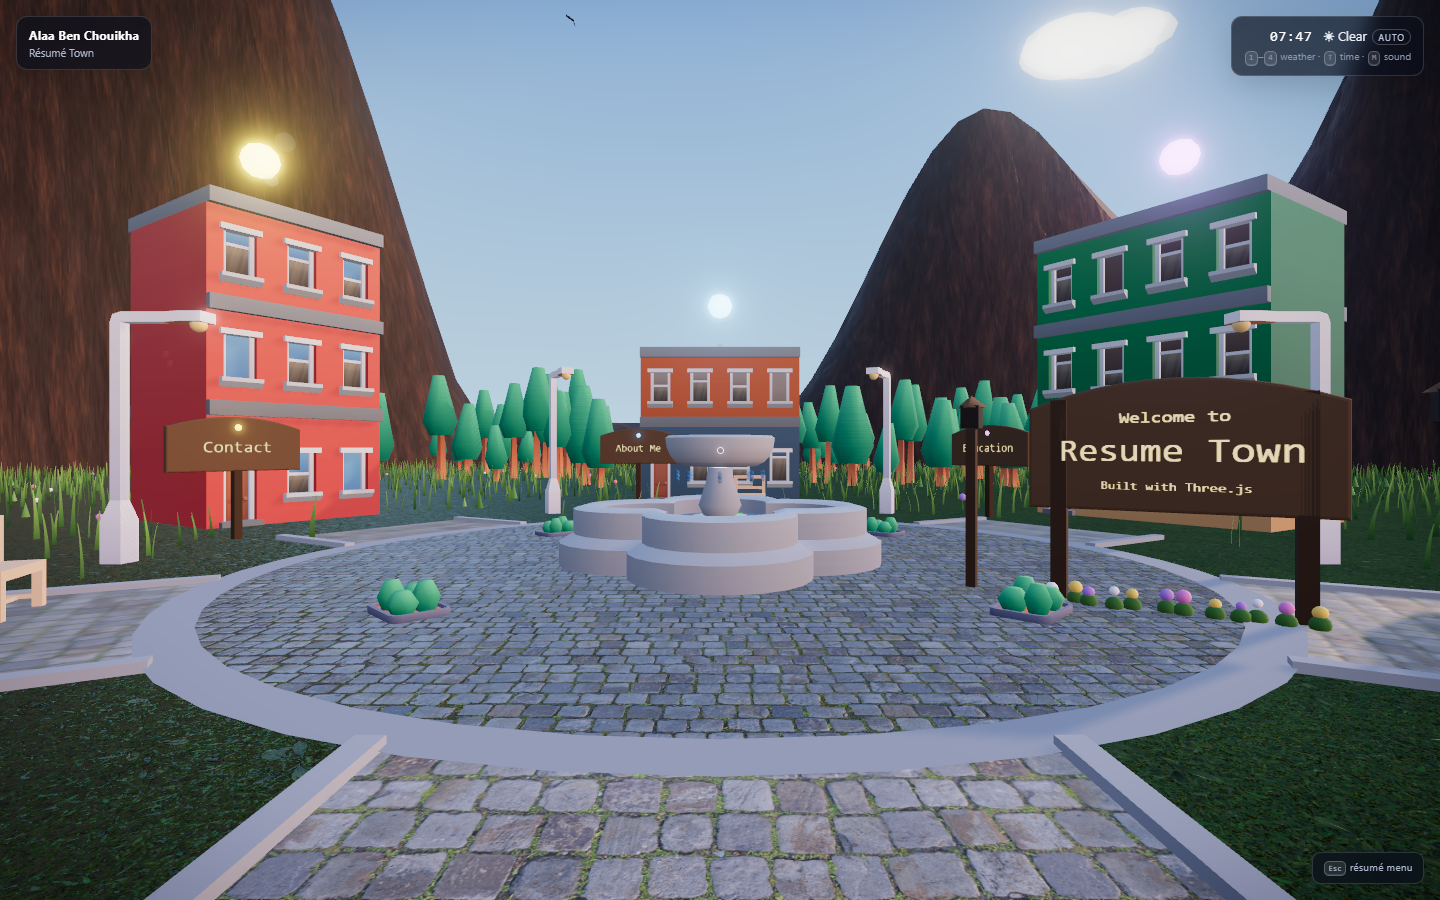
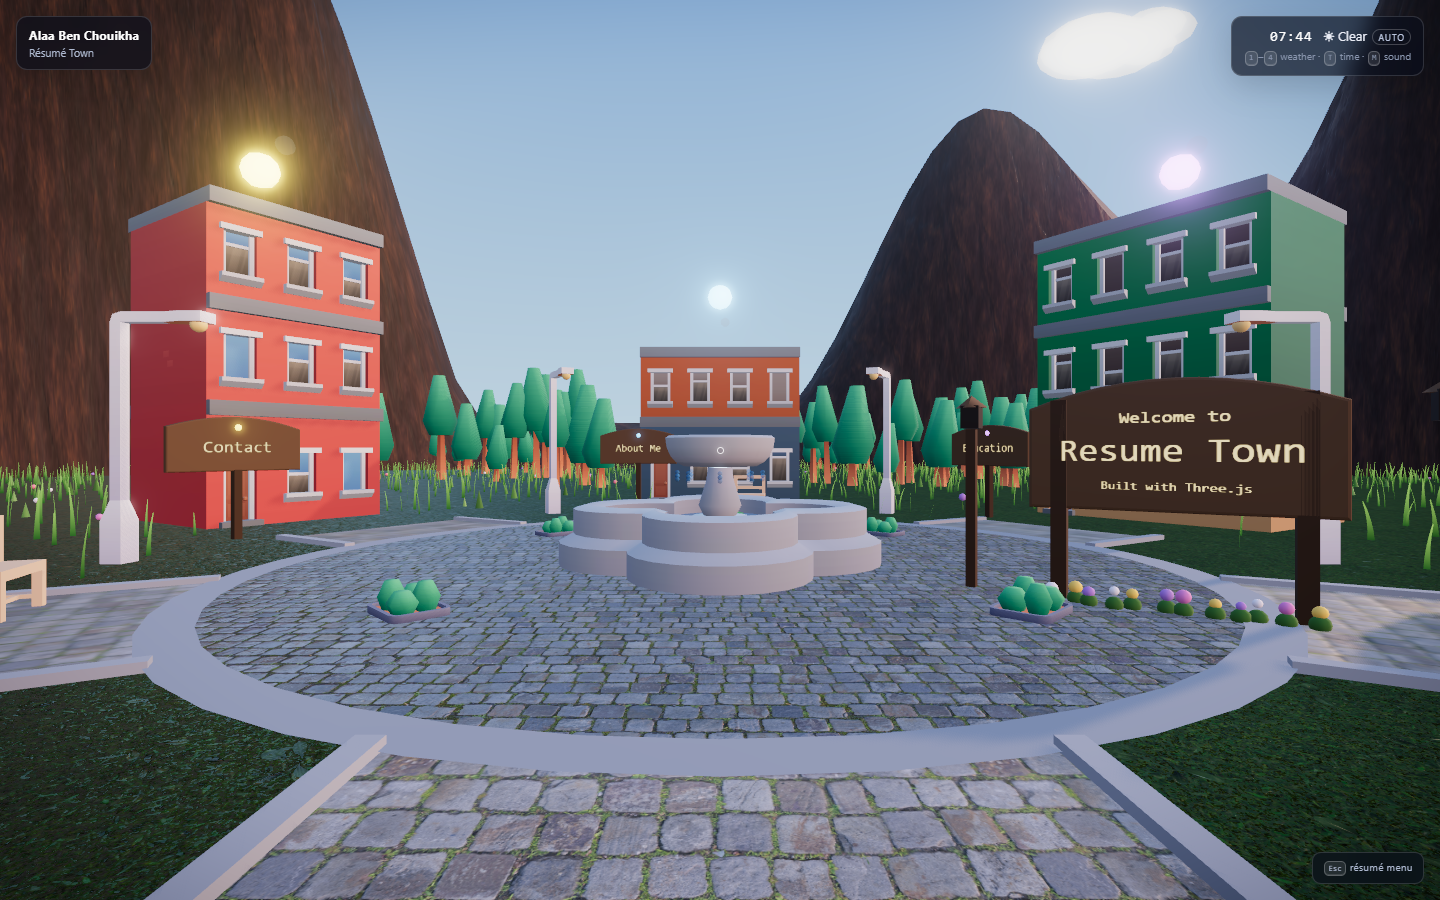
Fix stuck-in-furniture, add real interior door, optimize grass
- Player: never block movement when already inside a collider, so you can
  always walk back out (fixes getting permanently stuck in a chair); shrink
  furniture/decor collider padding.
- Doorway: a real wooden double-door (frame, header, transom, panels, handles,
  center mullion) fills the exit opening that used to show a black void.
- GrassField: unlit MeshBasicNodeMaterial + 13k->7k blades (big perf win; the
  lit instanced blades were the regression).
- Expose camera in dev for screenshot tooling.

diff --git a/src/components/Doorway.tsx b/src/components/Doorway.tsx
@@ -1,0 +1,66 @@
+// A real wooden double-door filling the room's exit gap (south wall, z = +4),
+// replacing the black void the open doorway used to show. The frame, header and
+// transom cover the full 2.4-wide x 4-tall opening so no background leaks through.
+const WALL_Z = 4; // ROOM_DEPTH / 2
+const GAP_W = 2.4; // DOORWAY_WIDTH
+const ROOM_H = 4;
+
+const FRAME = "#4a3524";
+const DOOR = "#7c5a38";
+const PANEL = "#6a4c2f";
+const HANDLE = "#d9b65a";
+
+function Leaf({ x, hingeSign }: { x: number; hingeSign: number }) {
+  // one door leaf with two recessed panels and a handle near the inner edge
+  return (
+    <group position={[x, 1.25, WALL_Z - 0.05]}>
+      <mesh castShadow receiveShadow>
+        <boxGeometry args={[0.96, 2.5, 0.08]} />
+        <meshStandardMaterial color={DOOR} roughness={0.7} />
+      </mesh>
+      {/* recessed panels (upper + lower) */}
+      {[0.55, -0.55].map((py) => (
+        <mesh key={py} position={[0, py, -0.05]}>
+          <boxGeometry args={[0.62, 0.95, 0.03]} />
+          <meshStandardMaterial color={PANEL} roughness={0.8} />
+        </mesh>
+      ))}
+      {/* handle near the inner (center) edge */}
+      <mesh position={[-hingeSign * 0.34, 0, -0.08]} rotation-x={Math.PI / 2}>
+        <cylinderGeometry args={[0.04, 0.04, 0.1, 10]} />
+        <meshStandardMaterial color={HANDLE} metalness={0.7} roughness={0.3} />
+      </mesh>
+    </group>
+  );
+}
+
+export default function Doorway({ wallColor }: { wallColor: string }) {
+  return (
+    <group>
+      {/* side jambs */}
+      {[-1.1, 1.1].map((x) => (
+        <mesh key={x} position={[x, 1.35, WALL_Z]} castShadow receiveShadow>
+          <boxGeometry args={[0.22, 2.7, 0.18]} />
+          <meshStandardMaterial color={FRAME} roughness={0.75} />
+        </mesh>
+      ))}
+      {/* header above the doors */}
+      <mesh position={[0, 2.6, WALL_Z]} castShadow receiveShadow>
+        <boxGeometry args={[GAP_W, 0.22, 0.18]} />
+        <meshStandardMaterial color={FRAME} roughness={0.75} />
+      </mesh>
+      {/* center board at the wall plane, hiding the seam between the two leaves */}
+      <mesh position={[0, 1.25, WALL_Z]} receiveShadow>
+        <boxGeometry args={[0.14, 2.5, 0.16]} />
+        <meshStandardMaterial color={FRAME} roughness={0.75} />
+      </mesh>
+      {/* transom panel between header and ceiling, blended to the wall */}
+      <mesh position={[0, (2.7 + ROOM_H) / 2, WALL_Z]} receiveShadow>
+        <boxGeometry args={[GAP_W, ROOM_H - 2.7, 0.14]} />
+        <meshStandardMaterial color={wallColor} roughness={0.85} />
+      </mesh>
+      <Leaf x={-0.5} hingeSign={-1} />
+      <Leaf x={0.5} hingeSign={1} />
+    </group>
+  );
+}

diff --git a/src/components/GrassField.tsx b/src/components/GrassField.tsx
@@ -1,14 +1,14 @@
 import { useLayoutEffect, useMemo, useRef } from "react";
 import { useFrame } from "@react-three/fiber";
 import * as THREE from "three";
-import { MeshStandardNodeMaterial } from "three/webgpu";
+import { MeshBasicNodeMaterial } from "three/webgpu";
 import { attribute, uniform, time, positionLocal, positionGeometry, vec3, sin, mix, color } from "three/tsl";
 import { buildings } from "../content";
 import { atm } from "../atmosphere";
 import { mulberry32 } from "../rand";
 import { GROUND_RADIUS, PLAZA_RADIUS } from "./Ground";
 
-const BLADE_COUNT = 13000;
+const BLADE_COUNT = 7000;
 const BLADE_HEIGHT = 0.52;
 
 // module-scope wind uniform (one grass field), driven once per frame
@@ -57,11 +57,11 @@ export default function GrassField() {
     const lean = heightFrac.mul(heightFrac);
     const sway = sin(time.mul(1.5).add(phase)).mul(uGrassWind.mul(0.22).add(0.05));
 
-    const material = new MeshStandardNodeMaterial();
+    // unlit basic material: thousands of lit blades were the perf hit. The
+    // vertical gradient (dark root -> bright tip) fakes enough light/depth.
+    const material = new MeshBasicNodeMaterial();
     material.positionNode = positionLocal.add(vec3(sway.mul(lean), 0, sway.mul(0.4).mul(lean)));
-    material.colorNode = mix(color("#3f6e34"), color("#86b35a"), heightFrac).mul(tint);
-    material.roughness = 0.9;
-    material.metalness = 0;
+    material.colorNode = mix(color("#35602c"), color("#8cba5e"), heightFrac).mul(tint);
     material.side = THREE.DoubleSide;
     return material;
   }, []);
@@ -116,7 +116,6 @@ export default function GrassField() {
     <instancedMesh
       ref={meshRef}
       args={[geometry, material, BLADE_COUNT]}
-      receiveShadow
       frustumCulled={false}
     />
   );

diff --git a/src/components/Player.tsx b/src/components/Player.tsx
@@ -44,6 +44,9 @@ export default function Player() {
   useEffect(() => {
     camera.position.set(0, EYE_HEIGHT, 8);
     camera.lookAt(0, EYE_HEIGHT, -11);
+    if (import.meta.env.DEV) {
+      (window as unknown as { __camera: THREE.Camera }).__camera = camera;
+    }
   }, [camera]);
 
   // teleport on house enter/exit, after React has committed the swapped
@@ -162,14 +165,15 @@ export default function Player() {
     const tryAxis = (move: () => void) => {
       const prevX = cam.position.x;
       const prevZ = cam.position.z;
+      // if already inside a collider (clipped in somehow), never block the move —
+      // otherwise every small step stays inside and reverts, trapping the player
+      const wasStuck = collidesAt(prevX, prevZ);
       move();
       const { x, z } = cam.position;
-      if (insideId) {
-        if (Math.abs(x) > ROOM_BOUND_X || Math.abs(z) > ROOM_BOUND_Z || collidesAt(x, z)) {
-          cam.position.x = prevX;
-          cam.position.z = prevZ;
-        }
-      } else if (collidesAt(x, z) || Math.hypot(x, z) > TOWN_RADIUS) {
+      const outOfBounds = insideId
+        ? Math.abs(x) > ROOM_BOUND_X || Math.abs(z) > ROOM_BOUND_Z
+        : Math.hypot(x, z) > TOWN_RADIUS;
+      if (outOfBounds || (!wasStuck && collidesAt(x, z))) {
         cam.position.x = prevX;
         cam.position.z = prevZ;
       }

diff --git a/src/components/Interior.tsx b/src/components/Interior.tsx
@@ -6,6 +6,7 @@ import { useTownStore, type InteriorItem } from "../store";
 import FurnitureItem from "./FurnitureItem";
 import DecorItem from "./DecorItem";
 import WorldText from "./WorldText";
+import Doorway from "./Doorway";
 
 const ROOM_WIDTH = 10;
 const ROOM_DEPTH = 8;
@@ -217,6 +218,9 @@ export default function Interior({ id }: { id: SectionId }) {
         <ringGeometry args={[0.5, 0.7, 24]} />
         <meshBasicMaterial color="#ffffff" transparent opacity={0.5} toneMapped={false} />
       </mesh>
+
+      {/* real door filling the exit opening (was a black void) */}
+      <Doorway wallColor={wallColor} />
 
       {decor.map((it, i) => (
         <DecorItem key={`decor-${id}-${i}`} def={it} />

diff --git a/src/components/FurnitureItem.tsx b/src/components/FurnitureItem.tsx
@@ -37,7 +37,7 @@ export default function FurnitureItem({ def }: { def: FurnitureItemDef }) {
     // measured from the real model bounds so the collider hugs each prop's
     // actual footprint instead of a guessed size
     const box = new THREE.Box3().setFromObject(group);
-    box.expandByScalar(0.15);
+    box.expandByScalar(0.05);
     return registerCollider(box);
   }, []);
 

diff --git a/src/components/DecorItem.tsx b/src/components/DecorItem.tsx
@@ -30,7 +30,7 @@ export default function DecorItem({ def }: { def: DecorItemDef }) {
     if (!group) return;
     group.updateMatrixWorld(true);
     const box = new THREE.Box3().setFromObject(group);
-    box.expandByScalar(0.1);
+    box.expandByScalar(0.03);
     return registerCollider(box);
   }, [def.noCollide]);
 
